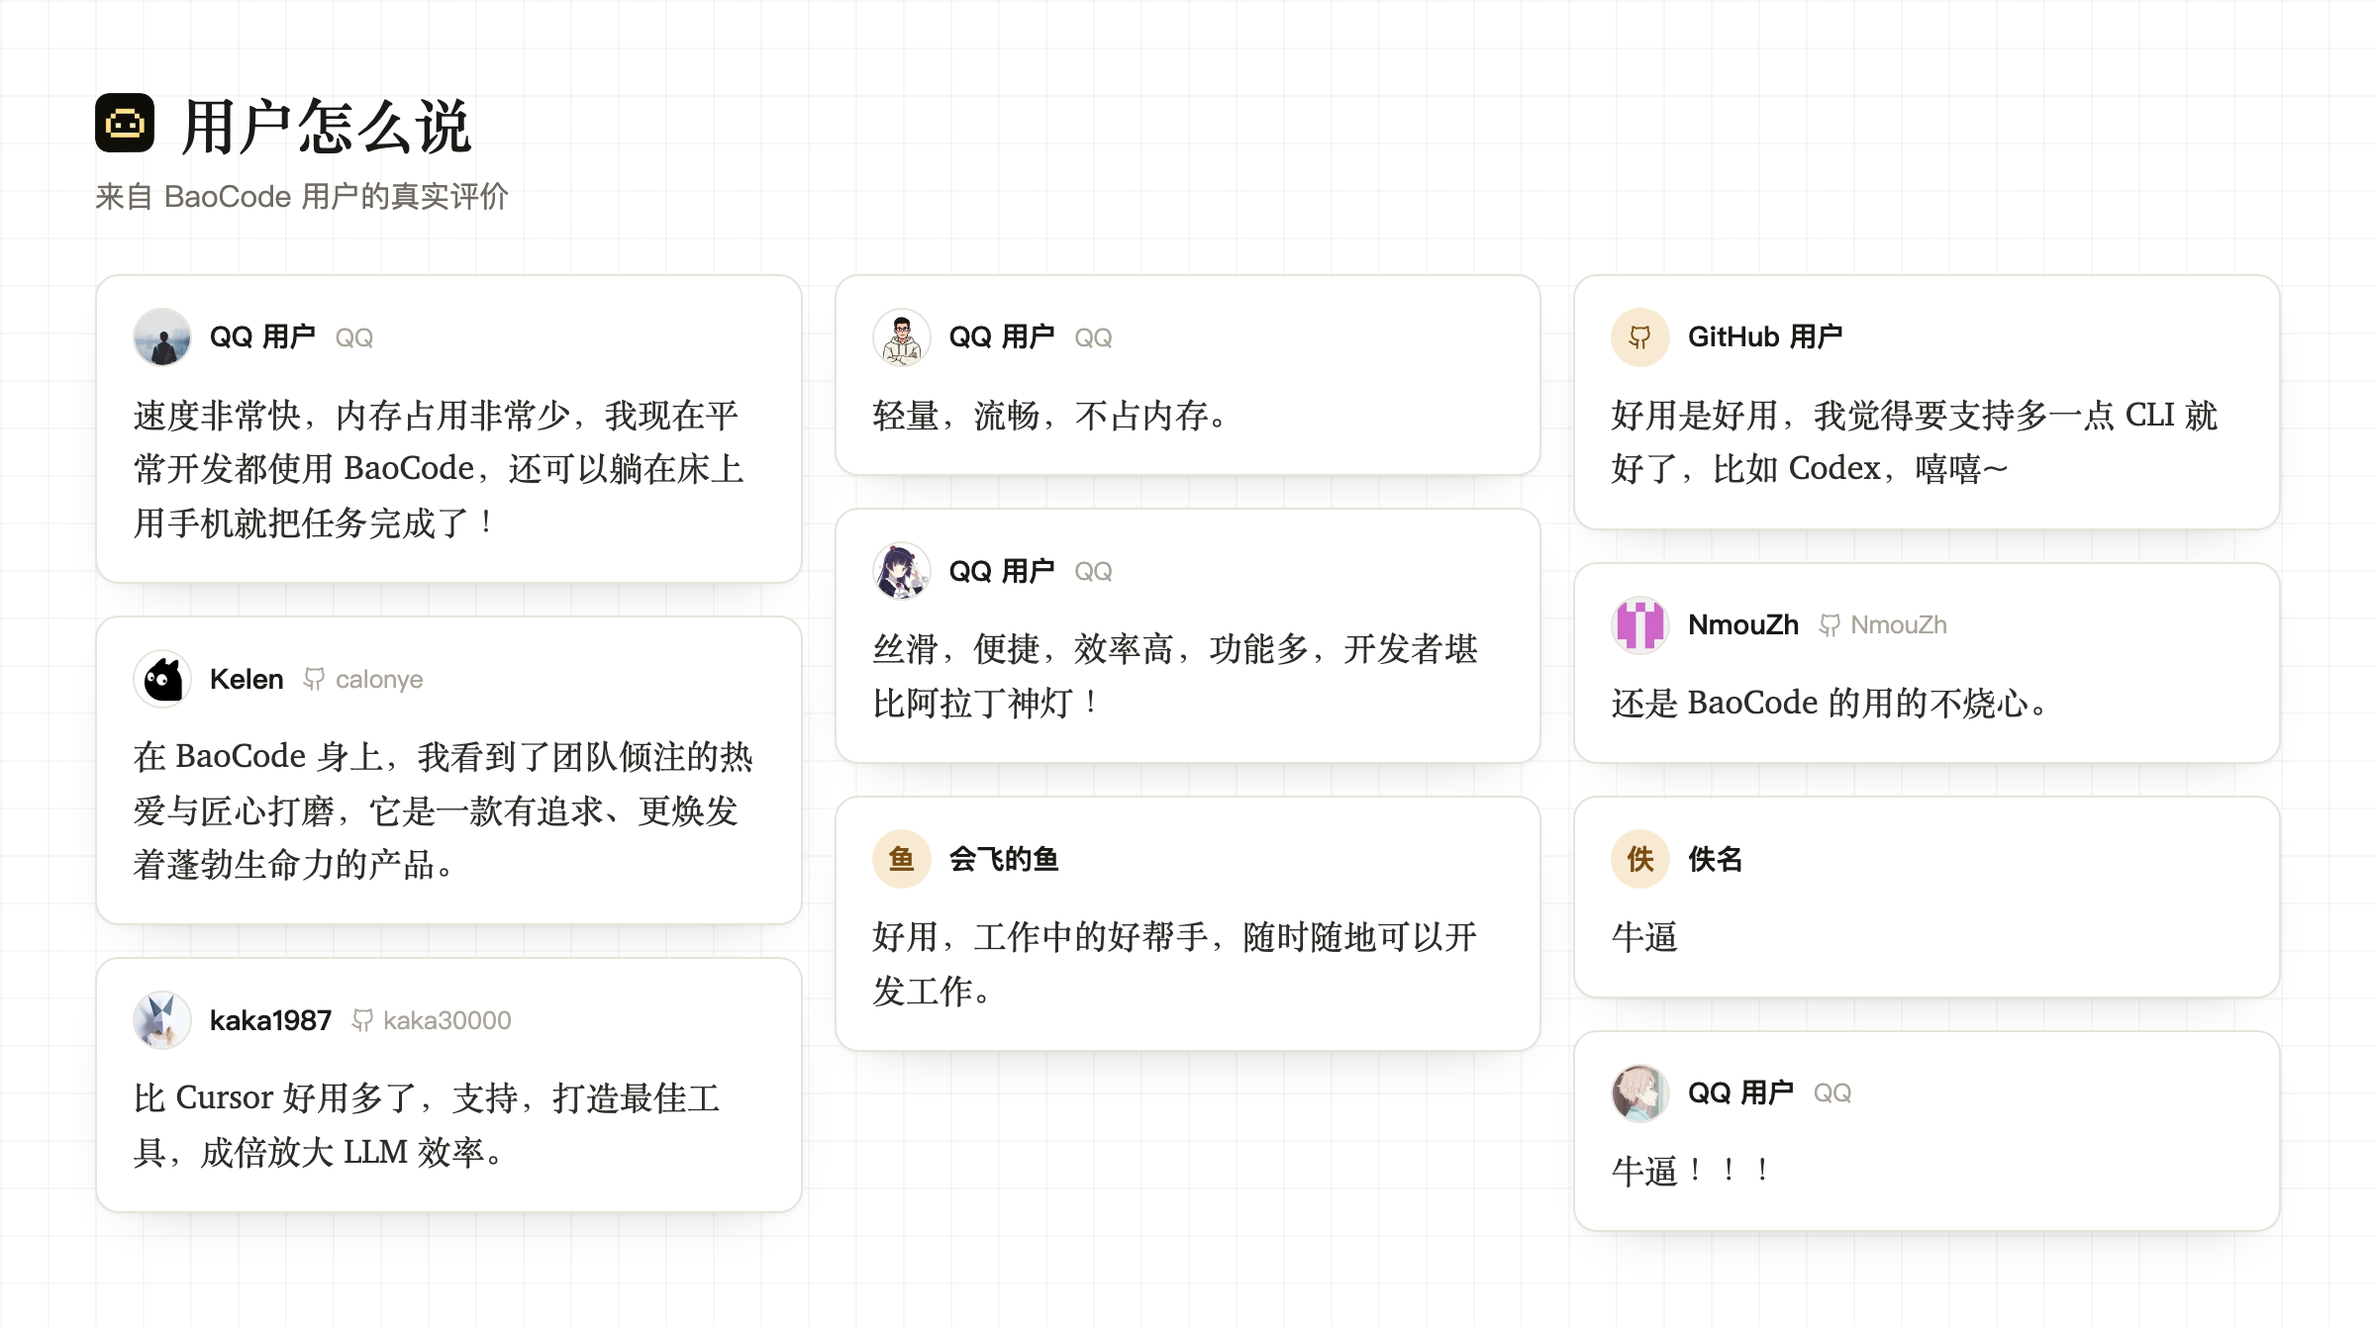
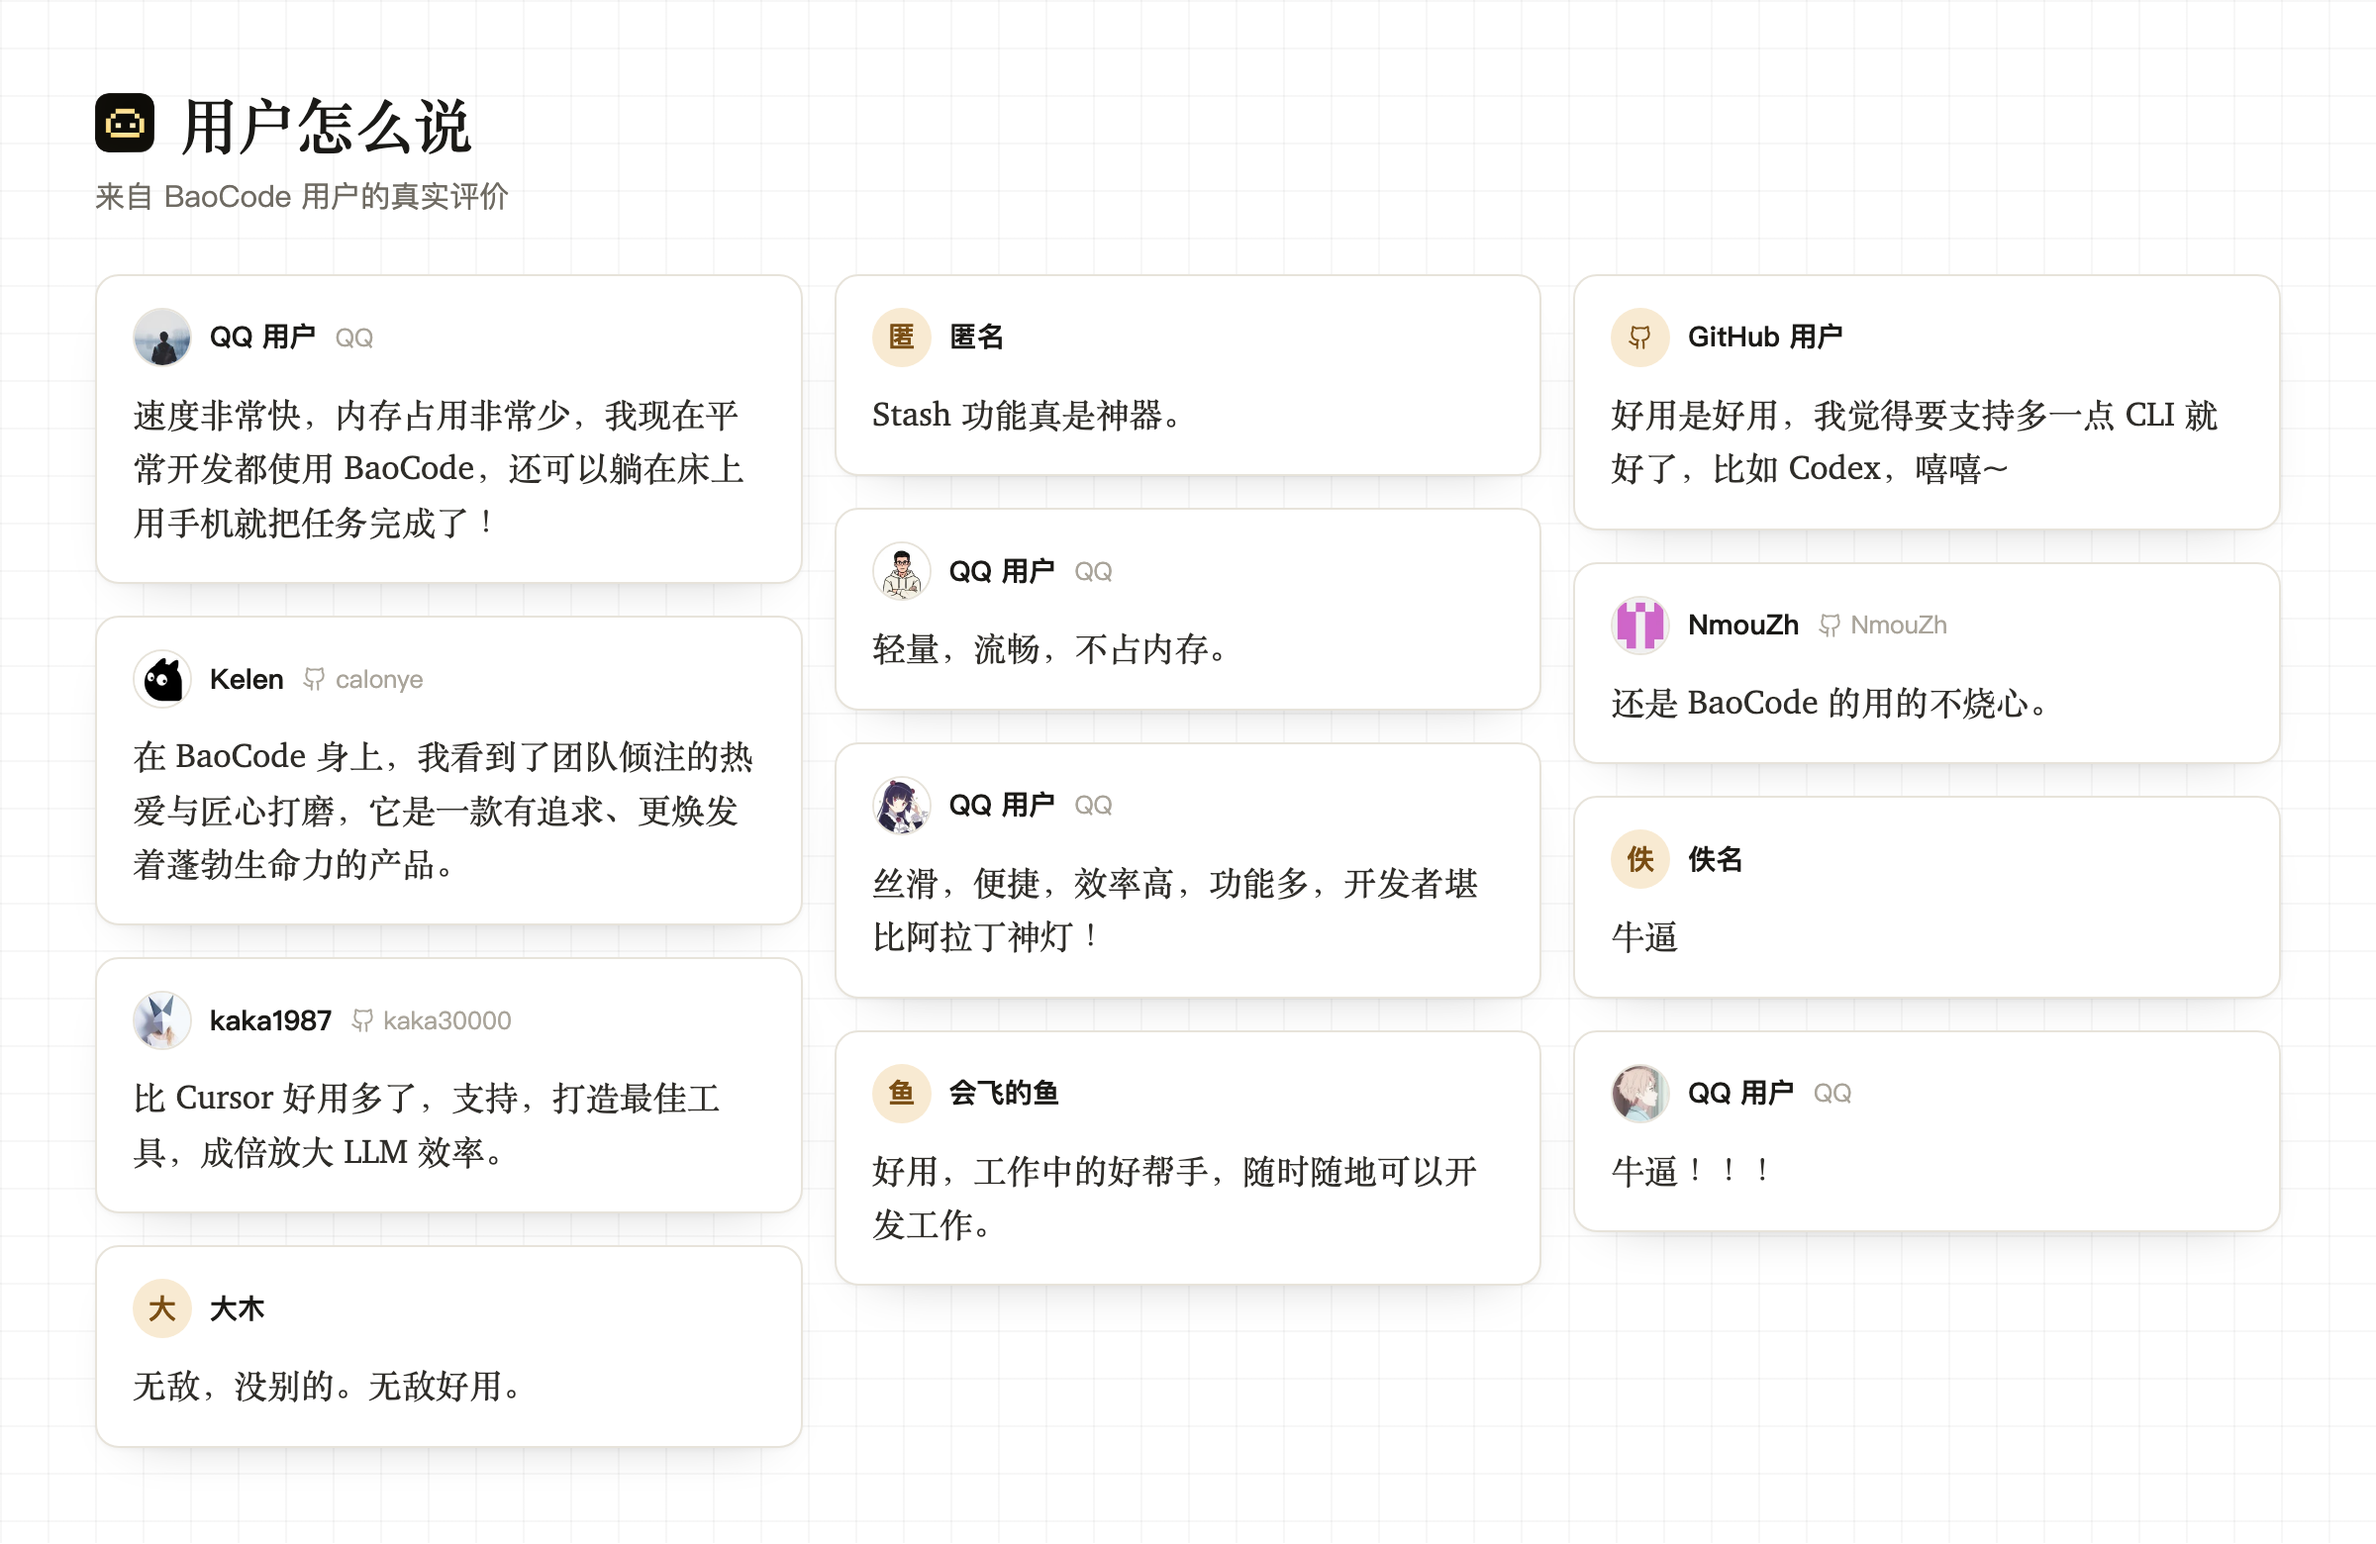
site, README: two more users' words; on a phone, two smaller reels

diff --git a/site/index.html b/site/index.html
@@ -58,9 +58,11 @@
   <ul class="reel">
     <li><span class="who"><img src="/reviews/3.webp" alt="">QQ user<small>QQ</small></span><blockquote>Really fast and uses very little memory. I do all my everyday work in BaoCode now, and I can even finish a task from my phone in bed!</blockquote></li>
     <li><span class="who"><img src="/reviews/5.webp" alt=""><a href="https://github.com/kaka30000">kaka1987</a><small><svg class="ic" aria-hidden="true"><use href="#ic-github"/></svg>kaka30000</small></span><blockquote>So much better than Cursor. Keep going, build the best tool, multiply what an LLM can do.</blockquote></li>
+    <li><span class="who"><span class="avatar" lang="zh-CN">大</span><span lang="zh-CN">大木</span></span><blockquote>Unbeatable, nothing more to say. Unbeatably good.</blockquote></li>
     <li><span class="who"><img src="/reviews/2.webp" alt="">QQ user<small>QQ</small></span><blockquote>Light, smooth, easy on memory.</blockquote></li>
     <li><span class="who"><img src="/reviews/1.webp" alt=""><a href="https://github.com/calonye">Kelen</a><small><svg class="ic" aria-hidden="true"><use href="#ic-github"/></svg>calonye</small></span><blockquote>In BaoCode I see the love and craft the team has poured into it: a product with ambition, and full of life.</blockquote></li>
     <li><span class="who"><span class="avatar">A</span>Anonymous</span><blockquote>Awesome.</blockquote></li>
+    <li><span class="who"><span class="avatar">A</span>Anonymous</span><blockquote>Stash is a godsend.</blockquote></li>
     <li><span class="who"><img src="/reviews/4.webp" alt="">QQ user<small>QQ</small></span><blockquote>Smooth, handy, efficient, full of features. The developer is a genie in a lamp!</blockquote></li>
     <li><span class="who"><span class="avatar" lang="zh-CN">鱼</span><span lang="zh-CN">会飞的鱼</span></span><blockquote>Great to use, a real help at work: I can get work done anywhere.</blockquote></li>
     <li><span class="who"><img src="/reviews/6.webp" alt=""><a href="https://github.com/NmouZh">NmouZh</a><small><svg class="ic" aria-hidden="true"><use href="#ic-github"/></svg>NmouZh</small></span><blockquote>BaoCode it is: no heartburn.</blockquote></li>

diff --git a/site/zh/index.html b/site/zh/index.html
@@ -57,9 +57,11 @@
   <ul class="reel">
     <li><span class="who"><img src="/reviews/3.webp" alt="">QQ 用户<small>QQ</small></span><blockquote>速度非常快，内存占用非常少，我现在平常开发都使用 BaoCode，还可以躺在床上用手机就把任务完成了！</blockquote></li>
     <li><span class="who"><img src="/reviews/5.webp" alt=""><a href="https://github.com/kaka30000">kaka1987</a><small><svg class="ic" aria-hidden="true"><use href="#ic-github"/></svg>kaka30000</small></span><blockquote>比 Cursor 好用多了，支持，打造最佳工具，成倍放大 LLM 效率。</blockquote></li>
+    <li><span class="who"><span class="avatar">大</span>大木</span><blockquote>无敌，没别的。无敌好用。</blockquote></li>
     <li><span class="who"><img src="/reviews/2.webp" alt="">QQ 用户<small>QQ</small></span><blockquote>轻量，流畅，不占内存。</blockquote></li>
     <li><span class="who"><img src="/reviews/1.webp" alt=""><a href="https://github.com/calonye">Kelen</a><small><svg class="ic" aria-hidden="true"><use href="#ic-github"/></svg>calonye</small></span><blockquote>在 BaoCode 身上，我看到了团队倾注的热爱与匠心打磨，它是一款有追求、更焕发着蓬勃生命力的产品。</blockquote></li>
     <li><span class="who"><span class="avatar">佚</span>佚名</span><blockquote>牛逼</blockquote></li>
+    <li><span class="who"><span class="avatar">匿</span>匿名</span><blockquote>Stash 功能真是神器。</blockquote></li>
     <li><span class="who"><img src="/reviews/4.webp" alt="">QQ 用户<small>QQ</small></span><blockquote>丝滑，便捷，效率高，功能多，开发者堪比阿拉丁神灯！</blockquote></li>
     <li><span class="who"><span class="avatar">鱼</span>会飞的鱼</span><blockquote>好用，工作中的好帮手，随时随地可以开发工作。</blockquote></li>
     <li><span class="who"><img src="/reviews/6.webp" alt=""><a href="https://github.com/NmouZh">NmouZh</a><small><svg class="ic" aria-hidden="true"><use href="#ic-github"/></svg>NmouZh</small></span><blockquote>还是 BaoCode 的用的不烧心。</blockquote></li>

diff --git a/site/style.css b/site/style.css
@@ -54,6 +54,19 @@ a:hover { text-decoration-color: var(--ink); }
 .reel .avatar { display: grid; place-items: center; background: #F8EAD2; color: #7A4E14; font-size: 12px; }
 .reel .avatar svg.ic { width: 14px; height: 14px; }
 .reel blockquote { margin: 0; font: 15px/1.55 var(--serif); color: var(--body); }
+/* On a phone: smaller cards, in two reels (site.js), the second running right. */
+@media (max-width: 640px) {
+  .reviews { display: grid; gap: 10px; margin-top: 0; padding: 6px 0 14px;
+    --fade: linear-gradient(to right, transparent, #000 6%, #000 94%, transparent); }
+  .reel { gap: 10px; }
+  .reel.back { animation-direction: reverse; }
+  @keyframes reel { to { transform: translateX(calc(-50% - 5px)); } }
+  .reel li { gap: 6px; min-width: 150px; max-width: 250px; padding: 10px 12px 11px; border-radius: 9px; }
+  .reel .who { gap: 7px; font-size: 12.5px; }
+  .reel img, .reel .avatar { width: 22px; height: 22px; }
+  .reel .who small { font-size: 11.5px; }
+  .reel blockquote { font-size: 14px; line-height: 1.5; }
+}
 /* Under the reel: the way to add to it. */
 .say-line { margin: 0 auto; padding: 0 24px; text-align: center; font: 13.5px/1.5 var(--sans); color: var(--muted); }
 .say-line button { padding: 0; border: 0; background: none; font: inherit; color: var(--ink); text-decoration: underline; text-decoration-color: var(--faint); text-underline-offset: 3px; cursor: pointer; }

diff --git a/site/site.js b/site/site.js
@@ -167,8 +167,16 @@ for (const img of document.querySelectorAll('figure img')) {
   if (img.complete && !img.naturalWidth) missing();
 }
 
-// The reel of what users say: its cards twice, the copy hidden from
-// readers and from Tab, at about 40 px a second however many there are.
+// The reel of what users say: on a phone, two reels, every other card
+// in the second, which runs the other way. Each its cards twice, the
+// copy hidden from readers and from Tab, at about 40 px a second however
+// many there are.
+for (const reel of document.querySelectorAll('.reel')) {
+  if (!matchMedia('(max-width: 640px)').matches) continue;
+  const second = Object.assign(document.createElement('ul'), { className: 'reel back' });
+  second.append(...[...reel.children].filter((_, i) => i % 2));
+  reel.after(second);
+}
 for (const reel of document.querySelectorAll('.reel')) {
   if (matchMedia('(prefers-reduced-motion: reduce)').matches) break;
   for (const li of [...reel.children]) {
